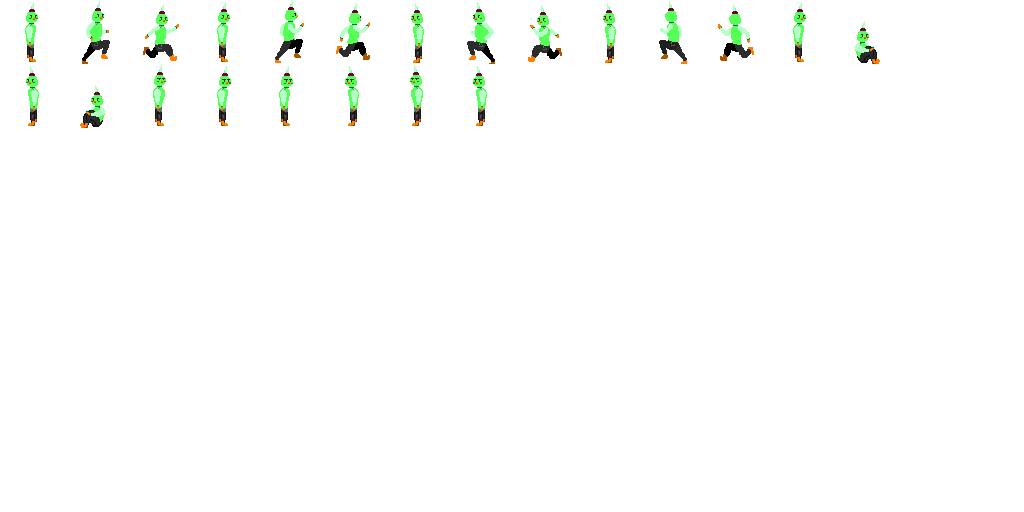
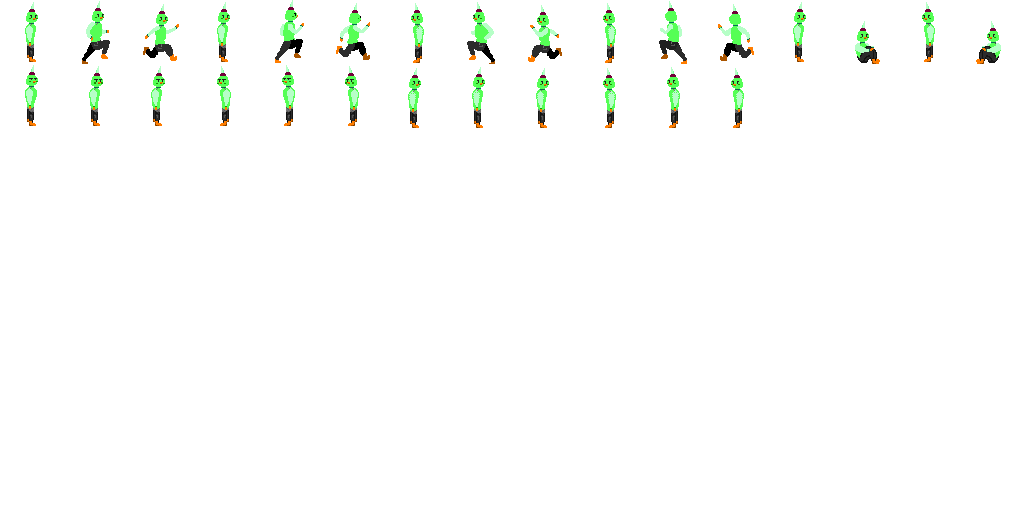
Spriteloopfixy (#62)
* hmMMMMM, TIME TO FIXY

* ye!

* Fix David mess again, now for makey worky.

* More broad use of spriteloops

* sprite loop implemented (basic).

* Cleaned SpriteLoop class.

* Renamed to SpriteSheet.

* Refined SpriteSheet and improved use in Pari.

* Left move worky.

* Add files via upload

pari left and right sprite sheet

* Add files via upload

pari updated spritesheet

* Idle animation.

* Pari animations refined.

diff --git a/include/sprite_sheet.hpp b/include/sprite_sheet.hpp
@@ -1,0 +1,89 @@
+#ifndef SPRITE_SHEET_HPP
+#define SPRITE_SHEET_HPP
+
+
+#include <SFML/Graphics.hpp>
+#include <chrono>
+
+//TODO: move this into seperate file, make it a class?
+struct Loop {
+	int start, frames, frameTime;
+	Loop mirror() {
+		Loop mirrorLoop = *this;
+		mirrorLoop.start += frames;
+		return mirrorLoop;
+	};
+
+	bool operator==(Loop l) {
+		return l.start == this->start
+		    && l.frames == this->frames
+		    && l.frameTime == this->frameTime;
+	}
+
+	bool operator!=(Loop l) { return !operator==(l); }
+};
+
+
+/**
+ * Facilitates creating an animation from a spritesheet.
+ */
+class SpriteSheet {
+	public:
+		/**
+		 * @param spriteSheet filename
+		 * @param spriteSize the vector size of a sprite in pixels (x,y) on the sprite sheet
+		 */
+		SpriteSheet(const std::string &spriteSheet, const sf::Vector2i &spriteSize);
+
+		/**
+		 * First updates the sprite to the proper frame, then returns
+		 *
+		 * @return the sprite
+		 */
+		sf::Sprite &getSprite(void);
+
+		/**
+		 * @return the current loop.
+		 */
+		const Loop &getLoop(void) { return this->loop; };
+
+		/**
+		 * Set the loop within the sprite sheet.
+		 *
+		 * @param loop new loop
+		 */
+		void setLoop(const Loop &loop) { this->loop = loop; };
+
+		/**
+		 * Set the loop within the sprite sheet.
+		 *
+		 * @param start the frame number of the first frame in the sequence
+		 * @param frames the number of frames in the sequence
+		 * @param frameTime the time between each frame of the animation
+		 */
+		void setLoop(const int &start, const int &frames, const int &frameTime) { this->loop = {start, frames, frameTime}; };
+
+		/**
+		 * Reset the animation to the first frame in the sequence.
+		 */
+		void restart(void) { this->startTime = std::chrono::system_clock::now(); };
+
+
+	private:
+		sf::Texture texture;
+		sf::Sprite sprite;
+		sf::IntRect spriteRect; // pixels
+		sf::Vector2i sheetSize; // rows/columns
+		Loop loop;
+		std::chrono::system_clock::time_point startTime;
+
+		/**
+		 * Set the frame within the frame loop.
+		 *
+		 * @param frame number ordered left to right, top to bottom
+		 */
+		void setFrame(const int &frame);
+};
+
+
+#endif

diff --git a/src/pari.cpp b/src/pari.cpp
@@ -4,6 +4,7 @@
 #include "actor.hpp"
 #include "character.hpp"
 #include "pari.hpp"
+#include "sprite_sheet.hpp"
 
 
 Pari::Pari(b2Vec2 position) : Character(position) {
@@ -21,11 +22,13 @@ Pari::Pari(b2Vec2 position) : Character(position) {
 	this->fixtureDef.density = 1.0f;
 	this->fixtureDef.friction = 2.4f;
 
+	this->spriteSheet = std::make_unique<SpriteSheet>("../resources/pari.png", sf::Vector2i(64, 64));
+	this->spriteSheet->setLoop(this->standLoop);
+
 	// set drawable
-	texture.loadFromFile("../resources/running-sequence.png");
 	this->sprite = sf::Sprite(texture, sf::IntRect(0,0,64,64));
-	sprite.setScale(0.08,0.08);
-	this->sprite.setOrigin(this->WIDTH, this->HEIGHT);
+	sprite.setScale(0.08,0.08); //hardcoding bad
+	this->sprite.setOrigin(32 * .08, 32 * .08);
 
 	// set old drawable
 	this->drawable.setOrigin(this->WIDTH, this->HEIGHT);
@@ -40,7 +43,23 @@ void Pari::draw(std::shared_ptr<sf::RenderWindow> window) {
 	                          -this->getBody()->GetPosition().y);
 	//window->draw(drawable);
 
-	this->sprite.setPosition(this->body->GetPosition().x - this->WIDTH - 2,
-	                        -this->body->GetPosition().y - this->HEIGHT - 1);
-	window->draw(this->sprite);
+	// set animation
+	Loop newLoop;
+	if (abs(this->body->GetLinearVelocity().x) > 0.1) {
+		newLoop = this->runLoop; //hardcoding bad
+	}
+	else newLoop = this->standLoop;
+
+	// use mirrored sprite if facing left
+	if (this->lookDirection == Direction::LEFT) newLoop = newLoop.mirror();
+
+	if (newLoop != this->spriteSheet->getLoop()) {
+		this->spriteSheet->setLoop(newLoop);
+		this->spriteSheet->restart();
+	}
+
+	this->spriteSheet->getSprite().setPosition(this->body->GetPosition().x - 32 * .08,
+	                                          -this->body->GetPosition().y - 32 * .08 - 0.5);
+
+	window->draw(this->spriteSheet->getSprite());
 }

diff --git a/src/sprite_sheet.cpp b/src/sprite_sheet.cpp
@@ -1,0 +1,33 @@
+#include <SFML/Graphics.hpp>
+#include <chrono>
+
+#include "sprite_sheet.hpp"
+
+
+SpriteSheet::SpriteSheet(const std::string &spriteSheet, const sf::Vector2i &spriteSize) {
+	this->texture.loadFromFile(spriteSheet);
+	this->sheetSize.x = this->texture.getSize().x / spriteSize.x;
+	this->sheetSize.y = this->texture.getSize().y / spriteSize.y;
+
+	this->spriteRect = sf::IntRect(sf::Vector2i(0,0), spriteSize);
+	this->sprite = sf::Sprite(texture, this->spriteRect);
+	this->sprite.setScale(0.08,0.08);
+	this->startTime = std::chrono::system_clock::now();
+}
+
+
+sf::Sprite &SpriteSheet::getSprite(void) {
+	using ms = std::chrono::milliseconds;
+	ms dt = std::chrono::duration_cast<ms>(std::chrono::system_clock::now() - this->startTime);
+	int n = dt.count() / this->loop.frameTime;
+	this->setFrame(n % this->loop.frames);
+	return (this->sprite);
+}
+
+
+void SpriteSheet::setFrame(const int &frame) {
+	int globalFrame = this->loop.start + frame;
+	this->spriteRect.top = this->spriteRect.height * (globalFrame / this->sheetSize.x); // rounds down
+	this->spriteRect.left = this->spriteRect.width * (globalFrame % this->sheetSize.x); // remainder
+	this->sprite.setTextureRect(this->spriteRect);
+}

diff --git a/src/character.cpp b/src/character.cpp
@@ -28,6 +28,7 @@ void Character::goLeft(void) {
 	if (this->body->GetLinearVelocity().x > -this->maxSpeed) {
 		this->body->ApplyForceToCenter(b2Vec2(-this->acceleration, 0), true);
 	}
+	this->lookDirection = Direction::LEFT;
 }
 
 
@@ -35,6 +36,7 @@ void Character::goRight(void) {
 	if (this->body->GetLinearVelocity().x < this->maxSpeed) {
 		this->body->ApplyForceToCenter(b2Vec2(this->acceleration, 0), true);
 	}
+	this->lookDirection = Direction::RIGHT;
 }
 
 void Character::stop(void) {

diff --git a/include/character.hpp b/include/character.hpp
@@ -36,6 +36,7 @@ class Character : public Actor, public std::enable_shared_from_this<Character> {
 
 
 	protected:
+		Direction lookDirection = Direction::RIGHT;
 		float jumpImpulse;
 		int maxJumps;
 		int jumpCounter = 0;
@@ -44,6 +45,7 @@ class Character : public Actor, public std::enable_shared_from_this<Character> {
 		float maxSpeed;
 		int maxHealth;
 		float health;
+		//TODO: give every character a SpriteSheet?
 };
 
 

diff --git a/include/pari.hpp b/include/pari.hpp
@@ -7,6 +7,7 @@
 
 #include "actor.hpp"
 #include "character.hpp"
+#include "sprite_sheet.hpp"
 
 
 /**
@@ -25,8 +26,11 @@ class Pari : public Character {
 
 	private:
 		sf::RectangleShape drawable;
-		b2PolygonShape shape;
 		sf::Texture texture;
+		b2PolygonShape shape;
+		Loop runLoop { 0, 6, 170 };
+		Loop standLoop { 22, 3, 400 };
+		std::unique_ptr<SpriteSheet> spriteSheet;
 		sf::Sprite sprite;
 };
 

diff --git a/include/actor.hpp b/include/actor.hpp
@@ -18,6 +18,12 @@ enum class Allegiance { PARROT, PIRATE, NEUTRAL };
 
 
 /*
+ * Define a direction
+ */
+enum class Direction { FRONT, BACK, LEFT, RIGHT, UP, DOWN };
+
+
+/*
  * Base class that all actors in the game inherit from
  */
 class Actor {
